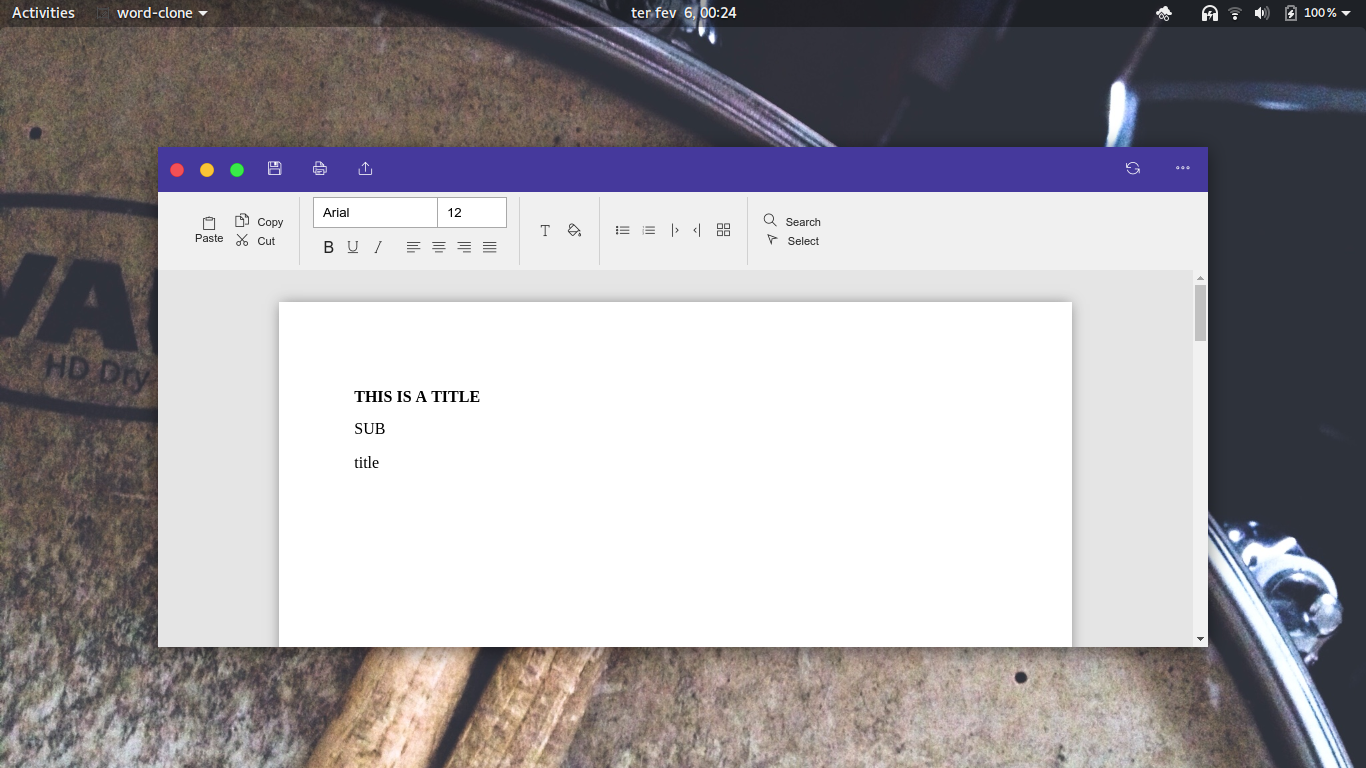
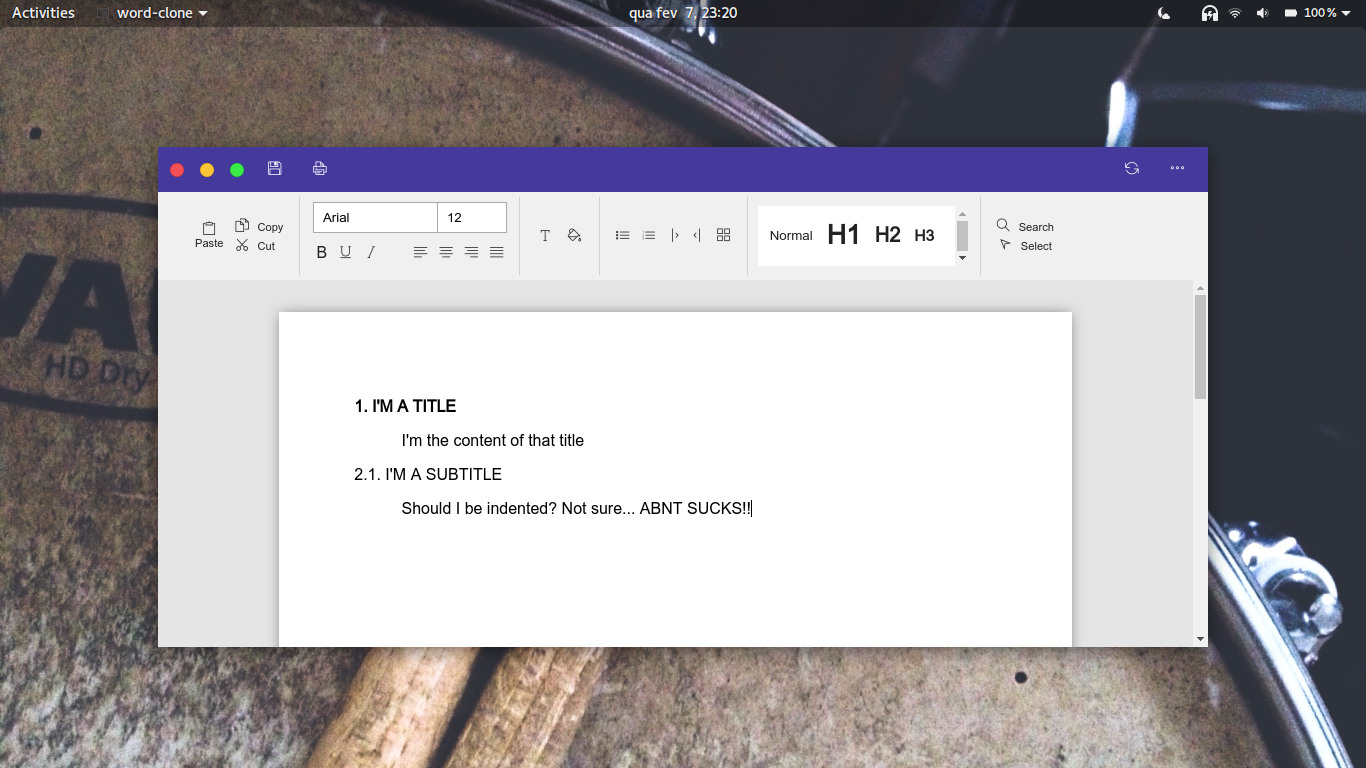
Updating README

diff --git a/README.md b/README.md
@@ -5,6 +5,7 @@
 
 ### "Features"
 
-- Kind of "detects" gtk theme and copies the necessary css to make the window actions look like the user's selected theme (only works on gnome tho)
+- Gtk integration somewhat works
+- Basic core features (b,u,i, Header, paragraph, aligning)
 
-Absolutly nothing works... yet
+Almos nothing works...
